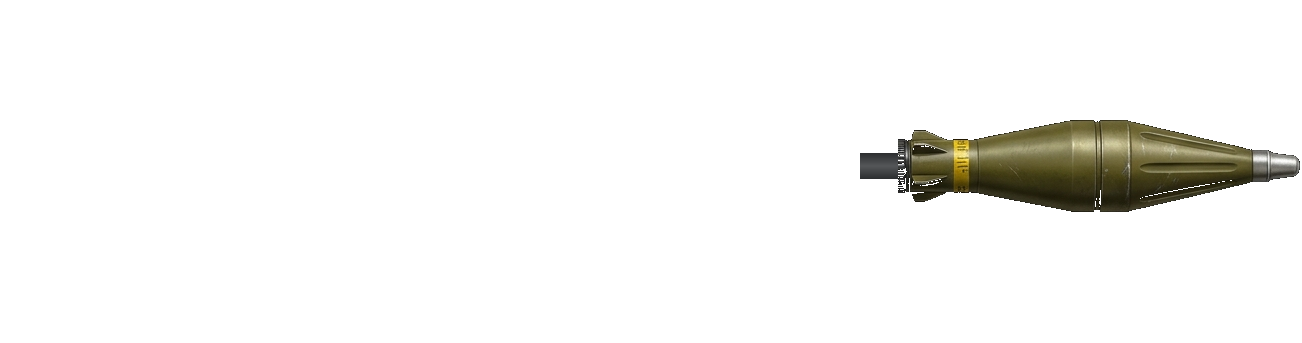
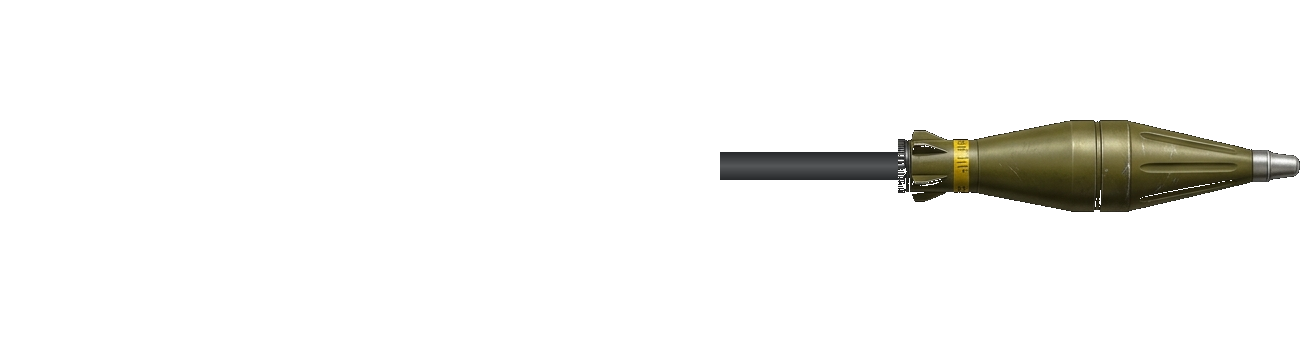
Udoskonalenie animacji przeladowania RPG-7: kinematyka IK reki, wsuwanie rakiety i osloniecie trzpienia w lufie

Changed region(s): [[0.553, 0.4373, 0.6759, 0.5248]]

diff --git a/js/weapons/transform.js b/js/weapons/transform.js
@@ -510,6 +510,7 @@ export function getWeaponHoldTransform(p) {
   const gripCfg = WEAPON_GRIP_CONFIGS[wepKey] || WEAPON_GRIP_CONFIGS.AK47;
   const isShotgun = (weapon.id === 'SHOTGUN');
   const isSniper = (weapon.id === 'SNIPER');
+  const isRpg = (weapon.id === 'RPG7');
   const isPistol = (weapon.id === 'GLOCK' || weapon.id === 'REVOLVER' || weapon.id === 'SAWED_OFF');
   const isTwoHandedHandgun = (weapon.id === 'GLOCK' || weapon.id === 'REVOLVER' || (!weapon.isMelee && Math.abs((gripCfg.foreGripX || 0) - (gripCfg.rearGripX || 0)) < 4.0));
   const isKnife = (weapon.id === 'KNIFE');
@@ -833,9 +834,9 @@ export function getWeaponHoldTransform(p) {
 
   if (p.isReloading && u > 0 && u < 1.0) {
     const reloadEnv = Math.sin(u * Math.PI);
-    reloadAngleOffset = (isShotgun ? -0.28 : (isPistol ? -0.24 : -0.20)) * reloadEnv;
-    reloadPivotShiftX = (isPistol ? -1.5 : -2.5) * reloadEnv * charFacing;
-    reloadPivotShiftY = (isPistol ? 1.2 : 1.8) * reloadEnv;
+    reloadAngleOffset = (isRpg ? -0.10 : (isShotgun ? -0.28 : (isPistol ? -0.24 : -0.20))) * reloadEnv;
+    reloadPivotShiftX = (isRpg ? -1.0 : (isPistol ? -1.5 : -2.5)) * reloadEnv * charFacing;
+    reloadPivotShiftY = (isRpg ? 0.8 : (isPistol ? 1.2 : 1.8)) * reloadEnv;
 
     if (isSniper) {
       // -------------------------------------------------------------
@@ -1004,6 +1005,41 @@ export function getWeaponHoldTransform(p) {
         const t = (u - 0.92) / 0.08;
         leftHandLocalX = lerp(1.5, foreGripDistX, ease(t));
         leftHandLocalY = lerp(-3.2, foreGripDistY, ease(t));
+      }
+    } else if (isRpg) {
+      // -------------------------------------------------------------
+      // RPG-7 SHOULDER LAUNCHER RELOAD ANIMATION
+      // -------------------------------------------------------------
+      // Rura wyrzutni opiera się stabilnie na ramieniu strzelca.
+      // Lewa ręka opuszcza chwyt przedni, sięga po nową rakietę PG-7V na plecach,
+      // unosi ją przed wylot lufy, wsuwa głowicę w lufę i blokuje zatrzask!
+      if (u < 0.22) {
+        // Faza 1: Ruch ręki ku zasobnikowi rakiet na plecach
+        const t = u / 0.22;
+        leftHandLocalX = lerp(foreGripDistX, -14.0, ease(t));
+        leftHandLocalY = lerp(foreGripDistY, 15.0, ease(t));
+      } else if (u < 0.40) {
+        // Faza 2: Dobycie nowej rakiety PG-7V i uniesienie jej przed wylot wyrzutni
+        const t = (u - 0.22) / 0.18;
+        leftHandLocalX = lerp(-14.0, 24.0, ease(t));
+        leftHandLocalY = lerp(15.0, -1.0, ease(t));
+      } else if (u < 0.82) {
+        // Faza 3: Fizyczne wsuwanie głowicy rakiety w przedni wylot lufy
+        const t = (u - 0.40) / 0.42;
+        leftHandLocalX = lerp(24.0, 10.5, t);
+        leftHandLocalY = -1.0 + Math.sin(t * Math.PI * 4) * 0.4;
+      } else if (u < 0.88) {
+        // Faza 4: Dociśnięcie i zaryglowanie głowicy w kołnierzu lufy (Lock slap)
+        const snapT = (u - 0.82) / 0.06;
+        leftHandLocalX = 10.5;
+        leftHandLocalY = -1.0;
+        reloadAngleOffset -= Math.sin(snapT * Math.PI) * 0.06;
+        reloadPivotShiftX -= Math.sin(snapT * Math.PI) * 1.8 * charFacing;
+      } else {
+        // Faza 5: Powrót ręki na przedni chwyt wspierający wyrzutni
+        const t = (u - 0.88) / 0.12;
+        leftHandLocalX = lerp(10.5, foreGripDistX, ease(t));
+        leftHandLocalY = lerp(-1.0, foreGripDistY, ease(t));
       }
     } else {
       // -------------------------------------------------------------

diff --git a/js/weapons/renderer.js b/js/weapons/renderer.js
@@ -1298,28 +1298,43 @@ export function drawHeldWeapon(ctx, p) {
       ctx.scale(s, s);
       ctx.translate(-pivotSpriteX, -pivotSpriteY);
 
-      // 1. Rura wyrzutni (korpus)
-      ctx.drawImage(imgLauncher, 0, 0);
-
-      // 2. Głowica rakiety PG-7V: widoczna tylko gdy załadowana lub fizycznie wsuwana w trakcie przeładowania
+      // 1. Głowica rakiety PG-7V: renderowana najpierw (pod lufą),
+      // dzięki czemu wsuwany trzpień naturalnie chowa się W ŚRODKU stalowej rury!
       if (imgRocket && imgRocket.complete && imgRocket.naturalWidth > 0) {
         if (hasRocketLoaded && !isReloading) {
           ctx.drawImage(imgRocket, 0, 0);
         } else if (isReloading) {
-          // Animacja wsuwania rakiety w przedni wylot lufy od reloadProgress = 0.30 do 0.85
-          const insertStart = 0.30;
-          const insertEnd = 0.85;
-          if (reloadProg >= insertStart) {
-            const t = Math.min(1.0, (reloadProg - insertStart) / (insertEnd - insertStart));
-            const offsetRocketX = (1.0 - t) * 120;
-            const insertJiggleY = (t < 1.0) ? Math.sin(t * Math.PI * 3) * 1.2 : 0;
+          if (reloadProg >= 0.22 && reloadProg < 0.40) {
+            // Faza uniesienia rakiety ku lufie: rakieta zbliża się pod lekkim kątem ku wlotowi
+            const t = (reloadProg - 0.22) / 0.18;
+            const offsetX = (1.0 - t) * 120 + 160;
+            const offsetY = (1.0 - t) * (-35);
+            const tilt = (1.0 - t) * (-0.22);
             ctx.save();
-            ctx.translate(offsetRocketX, insertJiggleY);
+            ctx.translate(offsetX, offsetY);
+            ctx.rotate(tilt);
             ctx.drawImage(imgRocket, 0, 0);
             ctx.restore();
+          } else if (reloadProg >= 0.40 && reloadProg < 0.82) {
+            // Faza osiowego wsuwania rakiety w głąb rury
+            const t = (reloadProg - 0.40) / 0.42;
+            const offsetX = (1.0 - t) * 160;
+            const jiggleY = (t < 1.0) ? Math.sin(t * Math.PI * 6) * 1.0 : 0;
+            ctx.save();
+            ctx.translate(offsetX, jiggleY);
+            ctx.drawImage(imgRocket, 0, 0);
+            ctx.restore();
+          } else if (reloadProg >= 0.82) {
+            // Rakieta zaryglowana w gnieździe
+            ctx.drawImage(imgRocket, 0, 0);
           }
         }
       }
+
+      // 2. Rura wyrzutni (korpus) renderowana na wierzchu:
+      // Opaque korpus zasłania chowany w lufie trzpień rakiety, a wylot lufy
+      // eksponuje wysuwającą się głowicę PG-7V!
+      ctx.drawImage(imgLauncher, 0, 0);
 
       ctx.restore();
 

diff --git a/index.html b/index.html
@@ -108,9 +108,9 @@
       "./js/ui/rankHud.js": "./js/ui/rankHud.js?v=v205_fix_rewardPreview_and_restore_touch_controls",
       "./js/uiManager.js": "./js/uiManager.js?v=v334_fix_menu_window_switch_arena_flash",
       "./js/weapons.js": "./js/weapons.js?v=v333_rpg7_grip_and_pivot_tuning",
-      "./js/weapons/renderer.js": "./js/weapons/renderer.js?v=v336_rpg7_modular_rocket_reload",
+      "./js/weapons/renderer.js": "./js/weapons/renderer.js?v=v338_rpg7_reload_ik_and_visual_animation",
       "./js/weapons/rocket.js": "./js/weapons/rocket.js?v=v333_rpg7_grip_and_pivot_tuning",
-      "./js/weapons/transform.js": "./js/weapons/transform.js?v=v337_ak47_barrel_offset_tuning",
+      "./js/weapons/transform.js": "./js/weapons/transform.js?v=v338_rpg7_reload_ik_and_visual_animation",
       "./js/world.js": "./js/world.js?v=v210_chrome_fillrate_ultrawide_and_locked_60fps",
       "./js/world/gore.js": "./js/world/gore.js?v=v259_restore_decapitation_dismemberment_and_drawGore",
       "./js/world/sky.js": "./js/world/sky.js?v=v134_striker_mobile_air_dash_flames_spread",
